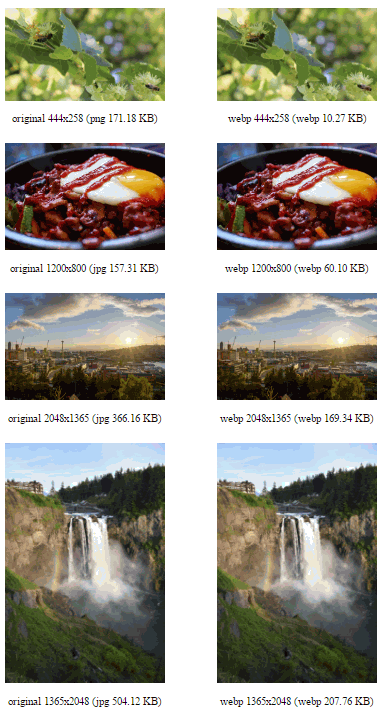
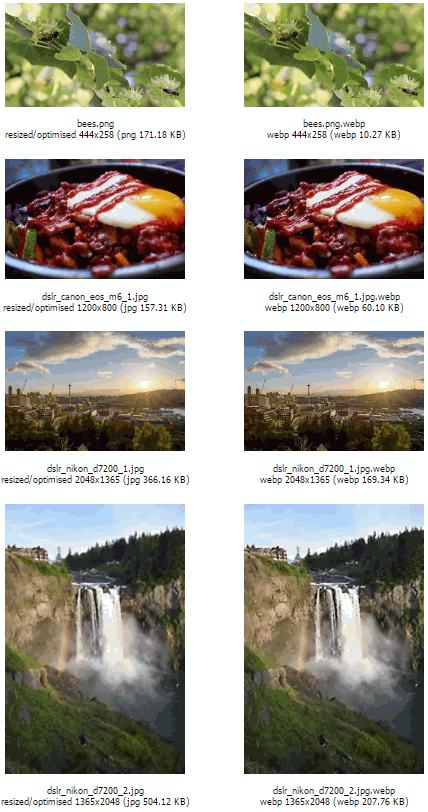
update with optimise-webp-nginx no resize gallery example

diff --git a/examples/examples-optimise-webp-nginx-300417.md b/examples/examples-optimise-webp-nginx-300417.md
@@ -290,7 +290,13 @@ Then optimise for images at `/home/nginx/domains/domain.com/public/images`
 
 Generated gallery output with original resized/optimised on left and webp converted on right.
 
+When using default `IMAGICK_RESIZE='y'`
+
 ![](/examples/examples-optimise-webp-nginx-300417/gallery-webp1.png) ![](/examples/examples-optimise-webp-nginx-300417/gallery-webp2.png)
+
+When using disabling resizing work with original images via `IMAGICK_RESIZE='n'`
+
+![](/examples/examples-optimise-webp-nginx-300417/gallery-webp1-noresize.png) ![](/examples/examples-optimise-webp-nginx-300417/gallery-webp2-noresize.png)
 
 ###### Summary
 
